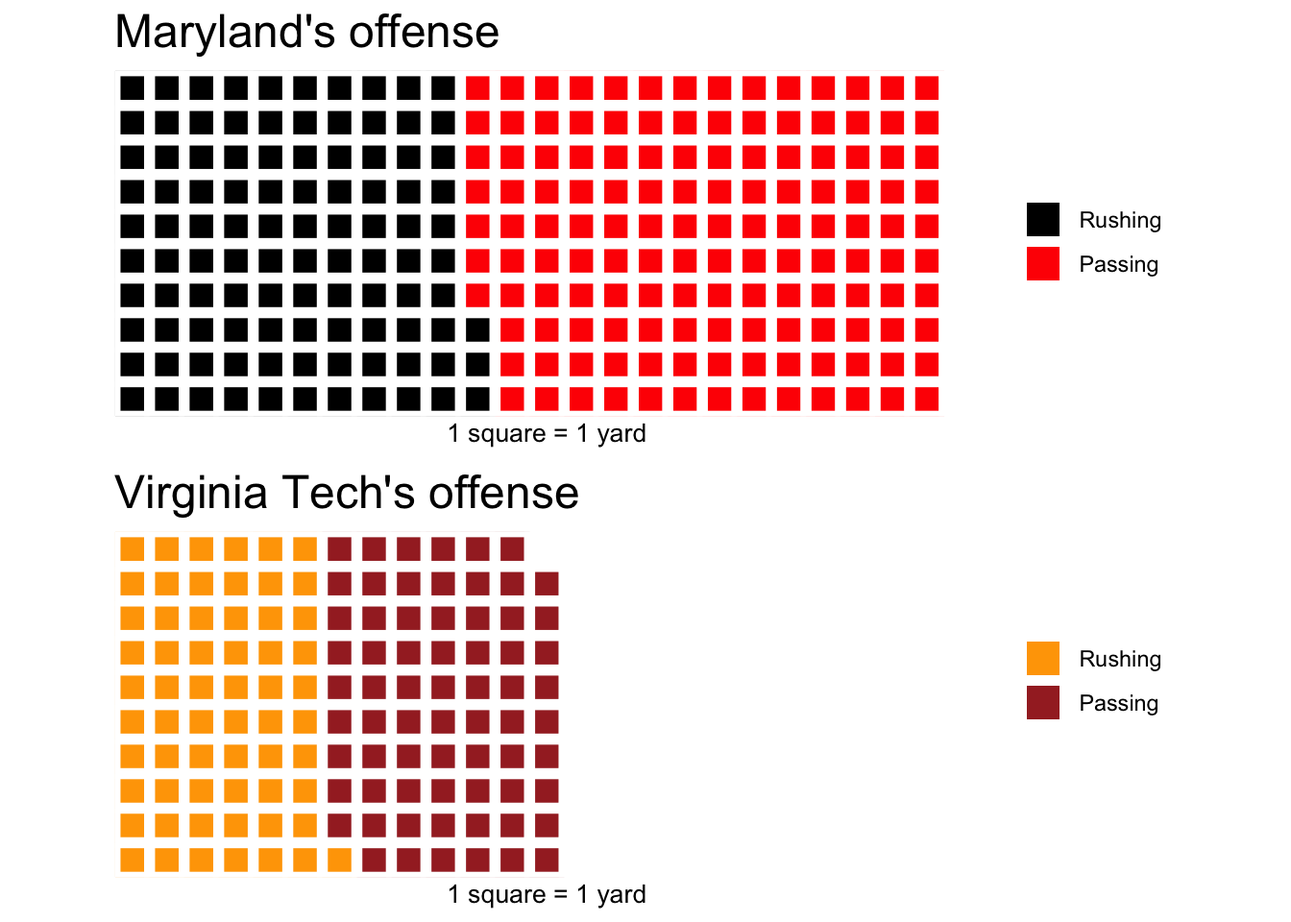
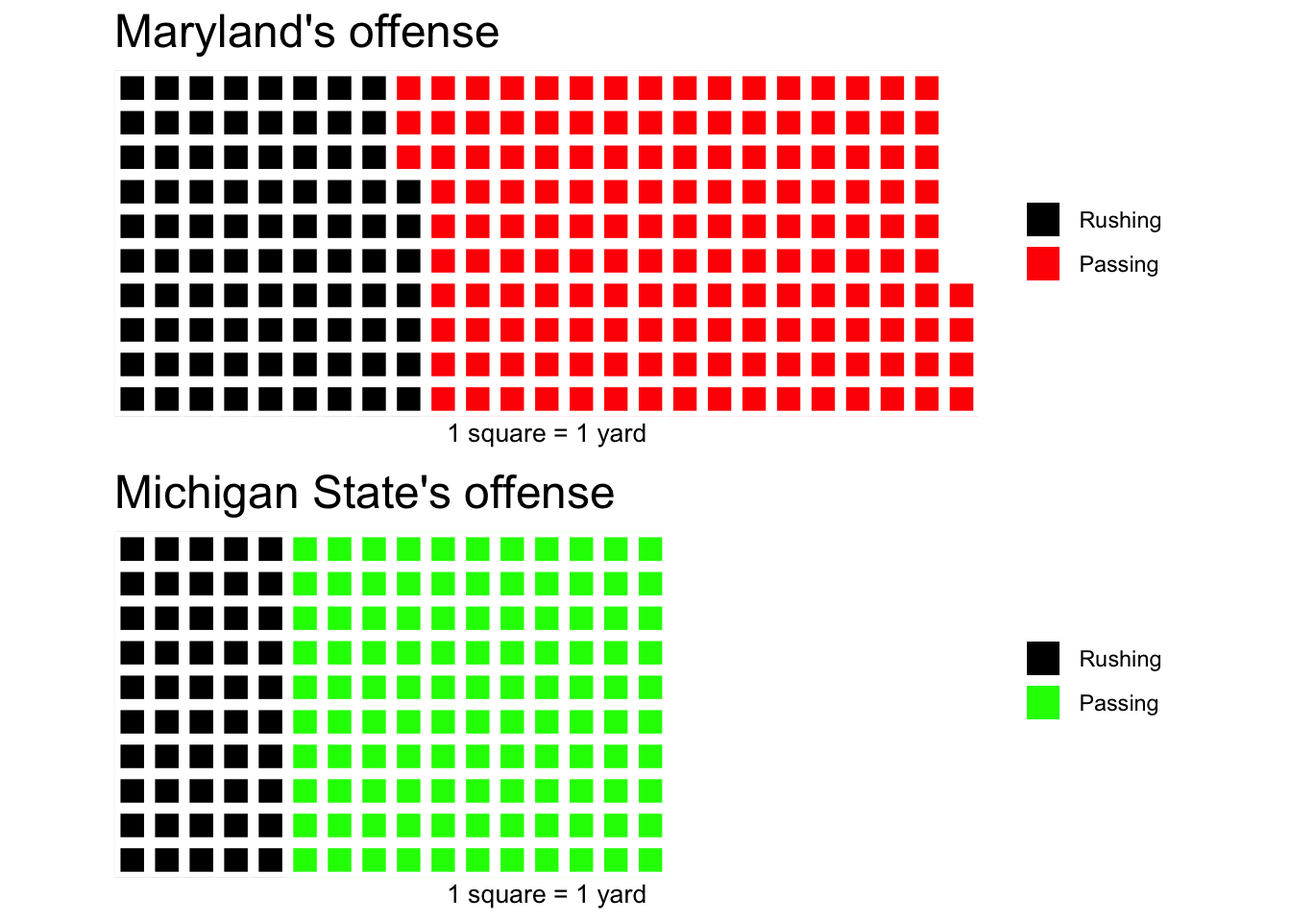
updated

diff --git a/sports/clustering.html b/sports/clustering.html
@@ -2,7 +2,7 @@
 <html xmlns="http://www.w3.org/1999/xhtml" lang="en" xml:lang="en"><head>
 
 <meta charset="utf-8">
-<meta name="generator" content="quarto-0.9.646">
+<meta name="generator" content="quarto-1.0.18">
 
 <meta name="viewport" content="width=device-width, initial-scale=1.0, user-scalable=yes">
 
@@ -98,7 +98,7 @@ code span.wa { color: #60a0b0; font-weight: bold; font-style: italic; } /* Warni
 <link href="site_libs/quarto-html/quarto-syntax-highlighting.css" rel="stylesheet" id="quarto-text-highlighting-styles">
 <script src="site_libs/bootstrap/bootstrap.min.js"></script>
 <link href="site_libs/bootstrap/bootstrap-icons.css" rel="stylesheet">
-<link href="site_libs/bootstrap/bootstrap.min.css" rel="stylesheet">
+<link href="site_libs/bootstrap/bootstrap.min.css" rel="stylesheet" id="quarto-bootstrap" data-mode="light">
 <script id="quarto-search-options" type="application/json">{
   "location": "sidebar",
   "copy-button": false,
@@ -408,22 +408,22 @@ dbl (49): #, Weight, Rk.x, G, GS, MP, FG, FGA, FG%, 2P, 2PA, 2P%, 3P, 3PA, 3...
 <p>To cluster this data properly, we have some work to do.</p>
 <p>First, it won’t do to have players who haven’t played, so we can use filter to find anyone with greater than 0 minutes played. Next, Jalen Smith is a forward, so let’s just look at forwards. Third, we want to limit the data to things that make sense to look at for Smith – things like shooting, rebounds, blocks, turnovers and points.</p>
 <div class="cell">
-<div class="sourceCode cell-code" id="cb4"><pre class="sourceCode r code-with-copy"><code class="sourceCode r"><span id="cb4-1"><a href="#cb4-1" aria-hidden="true" tabindex="-1"></a>playersselected <span class="ot">&lt;-</span> players <span class="sc">%&gt;%</span> </span>
-<span id="cb4-2"><a href="#cb4-2" aria-hidden="true" tabindex="-1"></a>  <span class="fu">filter</span>(MP<span class="sc">&gt;</span><span class="dv">0</span>) <span class="sc">%&gt;%</span> <span class="fu">filter</span>(Pos <span class="sc">==</span> <span class="st">"F"</span>) <span class="sc">%&gt;%</span> </span>
-<span id="cb4-3"><a href="#cb4-3" aria-hidden="true" tabindex="-1"></a>  <span class="fu">select</span>(Player, Team, Pos, MP, <span class="st">`</span><span class="at">FG%</span><span class="st">`</span>, TRB, BLK, TOV, PTS) <span class="sc">%&gt;%</span> </span>
-<span id="cb4-4"><a href="#cb4-4" aria-hidden="true" tabindex="-1"></a>  <span class="fu">na.omit</span>() </span></code><button title="Copy to Clipboard" class="code-copy-button"><i class="bi"></i></button></pre></div>
+<div class="sourceCode cell-code" id="cb4"><pre class="sourceCode r code-with-copy"><code class="sourceCode r"><span id="cb4-1"><a href="#cb4-1" aria-hidden="true" tabindex="-1"></a>playersselected <span class="ot">&lt;-</span> players <span class="sc">%&gt;%</span></span>
+<span id="cb4-2"><a href="#cb4-2" aria-hidden="true" tabindex="-1"></a>  <span class="fu">filter</span>(MP<span class="sc">&gt;</span><span class="dv">0</span>) <span class="sc">%&gt;%</span> <span class="fu">filter</span>(Pos <span class="sc">==</span> <span class="st">"F"</span>) <span class="sc">%&gt;%</span></span>
+<span id="cb4-3"><a href="#cb4-3" aria-hidden="true" tabindex="-1"></a>  <span class="fu">select</span>(Player, Team, Pos, MP, <span class="st">`</span><span class="at">FG%</span><span class="st">`</span>, TRB, BLK, TOV, PTS) <span class="sc">%&gt;%</span></span>
+<span id="cb4-4"><a href="#cb4-4" aria-hidden="true" tabindex="-1"></a>  <span class="fu">na.omit</span>()</span></code><button title="Copy to Clipboard" class="code-copy-button"><i class="bi"></i></button></pre></div>
 </div>
 <p>Now, k-means clustering doesn’t work as well with data that can be on different scales. So comparing a percentage to a count metric – shooting percentage to points – would create chaos because shooting percentages are a fraction of 1 and points, depending on when they are in the season, could be quite large. So we have to scale each metric – put them on a similar basis using the distance from the max value as our guide. Also, k-means clustering won’t work with text data, so we need to create a dataframe that’s just the numbers, but scaled. We can do that with another select, and using mutate_all with the scale function. The <code>na.omit()</code> means get rid of any blanks, because they too will cause errors.</p>
 <div class="cell">
-<div class="sourceCode cell-code" id="cb5"><pre class="sourceCode r code-with-copy"><code class="sourceCode r"><span id="cb5-1"><a href="#cb5-1" aria-hidden="true" tabindex="-1"></a>playersscaled <span class="ot">&lt;-</span> playersselected <span class="sc">%&gt;%</span> </span>
-<span id="cb5-2"><a href="#cb5-2" aria-hidden="true" tabindex="-1"></a>  <span class="fu">select</span>(MP, <span class="st">`</span><span class="at">FG%</span><span class="st">`</span>, TRB, BLK, TOV, PTS) <span class="sc">%&gt;%</span> </span>
-<span id="cb5-3"><a href="#cb5-3" aria-hidden="true" tabindex="-1"></a>  <span class="fu">mutate_all</span>(scale) <span class="sc">%&gt;%</span> </span>
+<div class="sourceCode cell-code" id="cb5"><pre class="sourceCode r code-with-copy"><code class="sourceCode r"><span id="cb5-1"><a href="#cb5-1" aria-hidden="true" tabindex="-1"></a>playersscaled <span class="ot">&lt;-</span> playersselected <span class="sc">%&gt;%</span></span>
+<span id="cb5-2"><a href="#cb5-2" aria-hidden="true" tabindex="-1"></a>  <span class="fu">select</span>(MP, <span class="st">`</span><span class="at">FG%</span><span class="st">`</span>, TRB, BLK, TOV, PTS) <span class="sc">%&gt;%</span></span>
+<span id="cb5-3"><a href="#cb5-3" aria-hidden="true" tabindex="-1"></a>  <span class="fu">mutate_all</span>(scale) <span class="sc">%&gt;%</span></span>
 <span id="cb5-4"><a href="#cb5-4" aria-hidden="true" tabindex="-1"></a>  <span class="fu">na.omit</span>()</span></code><button title="Copy to Clipboard" class="code-copy-button"><i class="bi"></i></button></pre></div>
 </div>
 <p>With k-means clustering, we decide how many clusters we want. Most often, researchers will try a handful of different cluster numbers and see what works. But there are methods for finding the optimal number. One method is called the Elbow method. One implementation of this, <a href="https://uc-r.github.io/kmeans_clustering">borrowed from the University of Cincinnati’s Business Analytics program</a>, does this quite nicely with a graph that will help you decide for yourself.</p>
 <p>All you need to do in this code is change out the data frame – <code>playersscaled</code> in this case – and run it.</p>
 <div class="cell">
-<div class="sourceCode cell-code" id="cb6"><pre class="sourceCode r code-with-copy"><code class="sourceCode r"><span id="cb6-1"><a href="#cb6-1" aria-hidden="true" tabindex="-1"></a><span class="co"># function to compute total within-cluster sum of square </span></span>
+<div class="sourceCode cell-code" id="cb6"><pre class="sourceCode r code-with-copy"><code class="sourceCode r"><span id="cb6-1"><a href="#cb6-1" aria-hidden="true" tabindex="-1"></a><span class="co"># function to compute total within-cluster sum of square</span></span>
 <span id="cb6-2"><a href="#cb6-2" aria-hidden="true" tabindex="-1"></a>wss <span class="ot">&lt;-</span> <span class="cf">function</span>(k) {</span>
 <span id="cb6-3"><a href="#cb6-3" aria-hidden="true" tabindex="-1"></a>  <span class="fu">kmeans</span>(playersscaled, k, <span class="at">nstart =</span> <span class="dv">10</span> )<span class="sc">$</span>tot.withinss</span>
 <span id="cb6-4"><a href="#cb6-4" aria-hidden="true" tabindex="-1"></a>}</span>
@@ -435,7 +435,7 @@ dbl (49): #, Weight, Rk.x, G, GS, MP, FG, FGA, FG%, 2P, 2PA, 2P%, 3P, 3PA, 3...
 <span id="cb6-10"><a href="#cb6-10" aria-hidden="true" tabindex="-1"></a>wss_values <span class="ot">&lt;-</span> <span class="fu">map_dbl</span>(k.values, wss)</span>
 <span id="cb6-11"><a href="#cb6-11" aria-hidden="true" tabindex="-1"></a></span>
 <span id="cb6-12"><a href="#cb6-12" aria-hidden="true" tabindex="-1"></a><span class="fu">plot</span>(k.values, wss_values,</span>
-<span id="cb6-13"><a href="#cb6-13" aria-hidden="true" tabindex="-1"></a>       <span class="at">type=</span><span class="st">"b"</span>, <span class="at">pch =</span> <span class="dv">19</span>, <span class="at">frame =</span> <span class="cn">FALSE</span>, </span>
+<span id="cb6-13"><a href="#cb6-13" aria-hidden="true" tabindex="-1"></a>       <span class="at">type=</span><span class="st">"b"</span>, <span class="at">pch =</span> <span class="dv">19</span>, <span class="at">frame =</span> <span class="cn">FALSE</span>,</span>
 <span id="cb6-14"><a href="#cb6-14" aria-hidden="true" tabindex="-1"></a>       <span class="at">xlab=</span><span class="st">"Number of clusters K"</span>,</span>
 <span id="cb6-15"><a href="#cb6-15" aria-hidden="true" tabindex="-1"></a>       <span class="at">ylab=</span><span class="st">"Total within-clusters sum of squares"</span>)</span></code><button title="Copy to Clipboard" class="code-copy-button"><i class="bi"></i></button></pre></div>
 <div class="cell-output-display">
@@ -524,10 +524,10 @@ Available components:
 <p>Interpreting this output, the very first thing you need to know is that <strong>the cluster numbers are meaningless</strong>. They aren’t ranks. They aren’t anything. After you have taken that on board, look at the cluster sizes at the top. Clusters 3 and 4 are pretty large compared to others. That’s notable. Then we can look at the cluster means. For reference, 0 is going to be average. So group 1 is below average on minutes played. Groups 8 is slightly above, group 5 is well above.</p>
 <p>So which group is Jalen Smith in? Well, first we have to put our data back together again. In K8, there is a list of cluster assignments in the same order we put them in, but recall we have no names. So we need to re-combine them with our original data. We can do that with the following:</p>
 <div class="cell">
-<div class="sourceCode cell-code" id="cb10"><pre class="sourceCode r code-with-copy"><code class="sourceCode r"><span id="cb10-1"><a href="#cb10-1" aria-hidden="true" tabindex="-1"></a>playercluster <span class="ot">&lt;-</span> <span class="fu">data.frame</span>(playersselected, k8<span class="sc">$</span>cluster) </span></code><button title="Copy to Clipboard" class="code-copy-button"><i class="bi"></i></button></pre></div>
+<div class="sourceCode cell-code" id="cb10"><pre class="sourceCode r code-with-copy"><code class="sourceCode r"><span id="cb10-1"><a href="#cb10-1" aria-hidden="true" tabindex="-1"></a>playercluster <span class="ot">&lt;-</span> <span class="fu">data.frame</span>(playersselected, k8<span class="sc">$</span>cluster)</span></code><button title="Copy to Clipboard" class="code-copy-button"><i class="bi"></i></button></pre></div>
 </div>
 <p>Now we have a dataframe called playercluster that has our player names and what cluster they are in. The fastest way to find Jalen Smith is to double click on the playercluster table in the environment and use the search in the top right of the table. Because this is based on some random selections of points to start the groupings, these may change from person to person, but Smith is in Group 2 in my data.</p>
-<p>We now have a dataset and can plot it like anything else. Let’s get Cam Mack and then plot him against the rest of college basketball on rebounds versus minutes played.</p>
+<p>We now have a dataset and can plot it like anything else. Let’s get Jalen Smith and then plot him against the rest of college basketball on rebounds versus minutes played.</p>
 <div class="cell">
 <div class="sourceCode cell-code" id="cb11"><pre class="sourceCode r code-with-copy"><code class="sourceCode r"><span id="cb11-1"><a href="#cb11-1" aria-hidden="true" tabindex="-1"></a>cm <span class="ot">&lt;-</span> playercluster <span class="sc">%&gt;%</span> <span class="fu">filter</span>(Player <span class="sc">==</span> <span class="st">"Jalen Smith"</span>)</span>
 <span id="cb11-2"><a href="#cb11-2" aria-hidden="true" tabindex="-1"></a></span>
@@ -539,8 +539,8 @@ Available components:
 </div>
 <p>So Jalen’s in cluster 2, which if you look at our clusters, puts him in the cluster with all above average metrics. What does that look like? We know Jalen was a rebounding machine, so where do group 2 people grade out on rebounds?</p>
 <div class="cell">
-<div class="sourceCode cell-code" id="cb13"><pre class="sourceCode r code-with-copy"><code class="sourceCode r"><span id="cb13-1"><a href="#cb13-1" aria-hidden="true" tabindex="-1"></a><span class="fu">ggplot</span>() <span class="sc">+</span> </span>
-<span id="cb13-2"><a href="#cb13-2" aria-hidden="true" tabindex="-1"></a>  <span class="fu">geom_point</span>(<span class="at">data=</span>playercluster, <span class="fu">aes</span>(<span class="at">x=</span>MP, <span class="at">y=</span>TRB, <span class="at">color=</span>k8.cluster)) <span class="sc">+</span> </span>
+<div class="sourceCode cell-code" id="cb13"><pre class="sourceCode r code-with-copy"><code class="sourceCode r"><span id="cb13-1"><a href="#cb13-1" aria-hidden="true" tabindex="-1"></a><span class="fu">ggplot</span>() <span class="sc">+</span></span>
+<span id="cb13-2"><a href="#cb13-2" aria-hidden="true" tabindex="-1"></a>  <span class="fu">geom_point</span>(<span class="at">data=</span>playercluster, <span class="fu">aes</span>(<span class="at">x=</span>MP, <span class="at">y=</span>TRB, <span class="at">color=</span>k8.cluster)) <span class="sc">+</span></span>
 <span id="cb13-3"><a href="#cb13-3" aria-hidden="true" tabindex="-1"></a>  <span class="fu">geom_point</span>(<span class="at">data=</span>cm, <span class="fu">aes</span>(<span class="at">x=</span>MP, <span class="at">y=</span>TRB), <span class="at">color=</span><span class="st">"red"</span>)</span></code><button title="Copy to Clipboard" class="code-copy-button"><i class="bi"></i></button></pre></div>
 <div class="cell-output-display">
 <p><img src="clustering_files/figure-html/unnamed-chunk-11-1.png" class="img-fluid" width="672"></p>
@@ -572,22 +572,22 @@ Available components:
 <p>How much does this change if we change the metrics? I used pretty standard box score metrics above. What if we did it using Player Efficiency Rating, True Shooting Percentage, Point Production, Assist Percentage, Win Shares Per 40 Minutes and Box Plus Minus (you can get definitions of all of them by <a href="https://www.sports-reference.com/cbb/schools/nebraska/2020.html">hovering over the stats on Nebraksa’s stats page</a>).</p>
 <p>We’ll repeat the process. Filter out players who don’t play, players with stats missing, and just focus on those stats listed above.</p>
 <div class="cell">
-<div class="sourceCode cell-code" id="cb16"><pre class="sourceCode r code-with-copy"><code class="sourceCode r"><span id="cb16-1"><a href="#cb16-1" aria-hidden="true" tabindex="-1"></a>playersadvanced <span class="ot">&lt;-</span> players <span class="sc">%&gt;%</span> </span>
-<span id="cb16-2"><a href="#cb16-2" aria-hidden="true" tabindex="-1"></a>  <span class="fu">filter</span>(MP<span class="sc">&gt;</span><span class="dv">0</span>) <span class="sc">%&gt;%</span> </span>
-<span id="cb16-3"><a href="#cb16-3" aria-hidden="true" tabindex="-1"></a>  <span class="fu">filter</span>(Pos <span class="sc">==</span> <span class="st">"F"</span>) <span class="sc">%&gt;%</span> </span>
-<span id="cb16-4"><a href="#cb16-4" aria-hidden="true" tabindex="-1"></a>  <span class="fu">select</span>(Player, Team, Pos, PER, <span class="st">`</span><span class="at">TS%</span><span class="st">`</span>, PProd, <span class="st">`</span><span class="at">AST%</span><span class="st">`</span>, <span class="st">`</span><span class="at">WS/40</span><span class="st">`</span>, BPM) <span class="sc">%&gt;%</span> </span>
-<span id="cb16-5"><a href="#cb16-5" aria-hidden="true" tabindex="-1"></a>  <span class="fu">na.omit</span>() </span></code><button title="Copy to Clipboard" class="code-copy-button"><i class="bi"></i></button></pre></div>
+<div class="sourceCode cell-code" id="cb16"><pre class="sourceCode r code-with-copy"><code class="sourceCode r"><span id="cb16-1"><a href="#cb16-1" aria-hidden="true" tabindex="-1"></a>playersadvanced <span class="ot">&lt;-</span> players <span class="sc">%&gt;%</span></span>
+<span id="cb16-2"><a href="#cb16-2" aria-hidden="true" tabindex="-1"></a>  <span class="fu">filter</span>(MP<span class="sc">&gt;</span><span class="dv">0</span>) <span class="sc">%&gt;%</span></span>
+<span id="cb16-3"><a href="#cb16-3" aria-hidden="true" tabindex="-1"></a>  <span class="fu">filter</span>(Pos <span class="sc">==</span> <span class="st">"F"</span>) <span class="sc">%&gt;%</span></span>
+<span id="cb16-4"><a href="#cb16-4" aria-hidden="true" tabindex="-1"></a>  <span class="fu">select</span>(Player, Team, Pos, PER, <span class="st">`</span><span class="at">TS%</span><span class="st">`</span>, PProd, <span class="st">`</span><span class="at">AST%</span><span class="st">`</span>, <span class="st">`</span><span class="at">WS/40</span><span class="st">`</span>, BPM) <span class="sc">%&gt;%</span></span>
+<span id="cb16-5"><a href="#cb16-5" aria-hidden="true" tabindex="-1"></a>  <span class="fu">na.omit</span>()</span></code><button title="Copy to Clipboard" class="code-copy-button"><i class="bi"></i></button></pre></div>
 </div>
 <p>Now to scale them.</p>
 <div class="cell">
-<div class="sourceCode cell-code" id="cb17"><pre class="sourceCode r code-with-copy"><code class="sourceCode r"><span id="cb17-1"><a href="#cb17-1" aria-hidden="true" tabindex="-1"></a>playersadvscaled <span class="ot">&lt;-</span> playersadvanced <span class="sc">%&gt;%</span> </span>
-<span id="cb17-2"><a href="#cb17-2" aria-hidden="true" tabindex="-1"></a>  <span class="fu">select</span>(PER, <span class="st">`</span><span class="at">TS%</span><span class="st">`</span>, PProd, <span class="st">`</span><span class="at">AST%</span><span class="st">`</span>, <span class="st">`</span><span class="at">WS/40</span><span class="st">`</span>, BPM) <span class="sc">%&gt;%</span> </span>
-<span id="cb17-3"><a href="#cb17-3" aria-hidden="true" tabindex="-1"></a>  <span class="fu">mutate_all</span>(scale) <span class="sc">%&gt;%</span> </span>
+<div class="sourceCode cell-code" id="cb17"><pre class="sourceCode r code-with-copy"><code class="sourceCode r"><span id="cb17-1"><a href="#cb17-1" aria-hidden="true" tabindex="-1"></a>playersadvscaled <span class="ot">&lt;-</span> playersadvanced <span class="sc">%&gt;%</span></span>
+<span id="cb17-2"><a href="#cb17-2" aria-hidden="true" tabindex="-1"></a>  <span class="fu">select</span>(PER, <span class="st">`</span><span class="at">TS%</span><span class="st">`</span>, PProd, <span class="st">`</span><span class="at">AST%</span><span class="st">`</span>, <span class="st">`</span><span class="at">WS/40</span><span class="st">`</span>, BPM) <span class="sc">%&gt;%</span></span>
+<span id="cb17-3"><a href="#cb17-3" aria-hidden="true" tabindex="-1"></a>  <span class="fu">mutate_all</span>(scale) <span class="sc">%&gt;%</span></span>
 <span id="cb17-4"><a href="#cb17-4" aria-hidden="true" tabindex="-1"></a>  <span class="fu">na.omit</span>()</span></code><button title="Copy to Clipboard" class="code-copy-button"><i class="bi"></i></button></pre></div>
 </div>
 <p>Let’s find the optimal number of clusters.</p>
 <div class="cell">
-<div class="sourceCode cell-code" id="cb18"><pre class="sourceCode r code-with-copy"><code class="sourceCode r"><span id="cb18-1"><a href="#cb18-1" aria-hidden="true" tabindex="-1"></a><span class="co"># function to compute total within-cluster sum of square </span></span>
+<div class="sourceCode cell-code" id="cb18"><pre class="sourceCode r code-with-copy"><code class="sourceCode r"><span id="cb18-1"><a href="#cb18-1" aria-hidden="true" tabindex="-1"></a><span class="co"># function to compute total within-cluster sum of square</span></span>
 <span id="cb18-2"><a href="#cb18-2" aria-hidden="true" tabindex="-1"></a>wss <span class="ot">&lt;-</span> <span class="cf">function</span>(k) {</span>
 <span id="cb18-3"><a href="#cb18-3" aria-hidden="true" tabindex="-1"></a>  <span class="fu">kmeans</span>(playersadvscaled, k, <span class="at">nstart =</span> <span class="dv">10</span> )<span class="sc">$</span>tot.withinss</span>
 <span id="cb18-4"><a href="#cb18-4" aria-hidden="true" tabindex="-1"></a>}</span>
@@ -603,7 +603,7 @@ Available components:
 Warning: did not converge in 10 iterations</code></pre>
 </div>
 <div class="sourceCode cell-code" id="cb20"><pre class="sourceCode r code-with-copy"><code class="sourceCode r"><span id="cb20-1"><a href="#cb20-1" aria-hidden="true" tabindex="-1"></a><span class="fu">plot</span>(k.values, wss_values,</span>
-<span id="cb20-2"><a href="#cb20-2" aria-hidden="true" tabindex="-1"></a>       <span class="at">type=</span><span class="st">"b"</span>, <span class="at">pch =</span> <span class="dv">19</span>, <span class="at">frame =</span> <span class="cn">FALSE</span>, </span>
+<span id="cb20-2"><a href="#cb20-2" aria-hidden="true" tabindex="-1"></a>       <span class="at">type=</span><span class="st">"b"</span>, <span class="at">pch =</span> <span class="dv">19</span>, <span class="at">frame =</span> <span class="cn">FALSE</span>,</span>
 <span id="cb20-3"><a href="#cb20-3" aria-hidden="true" tabindex="-1"></a>       <span class="at">xlab=</span><span class="st">"Number of clusters K"</span>,</span>
 <span id="cb20-4"><a href="#cb20-4" aria-hidden="true" tabindex="-1"></a>       <span class="at">ylab=</span><span class="st">"Total within-clusters sum of squares"</span>)</span></code><button title="Copy to Clipboard" class="code-copy-button"><i class="bi"></i></button></pre></div>
 <div class="cell-output-display">
@@ -686,7 +686,7 @@ Available components:
 </div>
 <p>Looks like this time, cluster 1 is all below average and cluster 5 is all above. Which cluster is Jalen Smith in?</p>
 <div class="cell">
-<div class="sourceCode cell-code" id="cb24"><pre class="sourceCode r code-with-copy"><code class="sourceCode r"><span id="cb24-1"><a href="#cb24-1" aria-hidden="true" tabindex="-1"></a>playeradvcluster <span class="ot">&lt;-</span> <span class="fu">data.frame</span>(playersadvanced, advk4<span class="sc">$</span>cluster) </span></code><button title="Copy to Clipboard" class="code-copy-button"><i class="bi"></i></button></pre></div>
+<div class="sourceCode cell-code" id="cb24"><pre class="sourceCode r code-with-copy"><code class="sourceCode r"><span id="cb24-1"><a href="#cb24-1" aria-hidden="true" tabindex="-1"></a>playeradvcluster <span class="ot">&lt;-</span> <span class="fu">data.frame</span>(playersadvanced, advk4<span class="sc">$</span>cluster)</span></code><button title="Copy to Clipboard" class="code-copy-button"><i class="bi"></i></button></pre></div>
 </div>
 <div class="cell">
 <div class="sourceCode cell-code" id="cb25"><pre class="sourceCode r code-with-copy"><code class="sourceCode r"><span id="cb25-1"><a href="#cb25-1" aria-hidden="true" tabindex="-1"></a>jsadv <span class="ot">&lt;-</span> playeradvcluster <span class="sc">%&gt;%</span> <span class="fu">filter</span>(Player <span class="sc">==</span> <span class="st">"Jalen Smith"</span>)</span>
@@ -702,9 +702,9 @@ Available components:
 <p>Cluster 4 on my dataset. So in this season, we can say he’s in a big group of players who are all above average on these advanced metrics.</p>
 <p>Now who are his Big Ten peers?</p>
 <div class="cell">
-<div class="sourceCode cell-code" id="cb27"><pre class="sourceCode r code-with-copy"><code class="sourceCode r"><span id="cb27-1"><a href="#cb27-1" aria-hidden="true" tabindex="-1"></a>playeradvcluster <span class="sc">%&gt;%</span> </span>
-<span id="cb27-2"><a href="#cb27-2" aria-hidden="true" tabindex="-1"></a>  <span class="fu">filter</span>(advk4.cluster <span class="sc">==</span> <span class="dv">4</span>) <span class="sc">%&gt;%</span> </span>
-<span id="cb27-3"><a href="#cb27-3" aria-hidden="true" tabindex="-1"></a>  <span class="fu">filter</span>(Team <span class="sc">%in%</span> big10) <span class="sc">%&gt;%</span> </span>
+<div class="sourceCode cell-code" id="cb27"><pre class="sourceCode r code-with-copy"><code class="sourceCode r"><span id="cb27-1"><a href="#cb27-1" aria-hidden="true" tabindex="-1"></a>playeradvcluster <span class="sc">%&gt;%</span></span>
+<span id="cb27-2"><a href="#cb27-2" aria-hidden="true" tabindex="-1"></a>  <span class="fu">filter</span>(advk4.cluster <span class="sc">==</span> <span class="dv">4</span>) <span class="sc">%&gt;%</span></span>
+<span id="cb27-3"><a href="#cb27-3" aria-hidden="true" tabindex="-1"></a>  <span class="fu">filter</span>(Team <span class="sc">%in%</span> big10) <span class="sc">%&gt;%</span></span>
 <span id="cb27-4"><a href="#cb27-4" aria-hidden="true" tabindex="-1"></a>  <span class="fu">arrange</span>(<span class="fu">desc</span>(PProd))</span></code><button title="Copy to Clipboard" class="code-copy-button"><i class="bi"></i></button></pre></div>
 <div class="cell-output cell-output-stdout">
 <pre><code>            Player                Team Pos   PER TS. PProd AST.  WS.40   BPM
@@ -717,7 +717,7 @@ Available components:
 3             4</code></pre>
 </div>
 </div>
-<p>Sorting on Points Produced, Cam Mack is third out of the 15 forwards in the Big Ten who land in Cluster 4. Seems advanced metrics rate Jalen Smith pretty highly.</p>
+<p>Sorting on Points Produced, Jalen Smith is third out of the 15 forwards in the Big Ten who land in Cluster 4. Seems advanced metrics rate Jalen Smith pretty highly.</p>
 
 
 </section>
@@ -725,6 +725,21 @@ Available components:
 </main> <!-- /main -->
 <script id="quarto-html-after-body" type="application/javascript">
 window.document.addEventListener("DOMContentLoaded", function (event) {
+  const toggleBodyColorMode = (bsSheetEl) => {
+    const mode = bsSheetEl.getAttribute("data-mode");
+    const bodyEl = window.document.querySelector("body");
+    if (mode === "dark") {
+      bodyEl.classList.add("quarto-dark");
+      bodyEl.classList.remove("quarto-light");
+    } else {
+      bodyEl.classList.add("quarto-light");
+      bodyEl.classList.remove("quarto-dark");
+    }
+  }
+  const toggleBodyColorPrimary = () => {
+    toggleBodyColorMode(window.document.querySelector("link#quarto-bootstrap"));
+  }
+  toggleBodyColorPrimary();  
   const icon = "";
   const anchorJS = new window.AnchorJS();
   anchorJS.options = {

diff --git a/sports/wafflecharts.html b/sports/wafflecharts.html
@@ -385,12 +385,12 @@ code span.wa { color: #60a0b0; font-weight: bold; font-style: italic; } /* Warni
 </div>
 <section id="making-waffles-with-vectors" class="level2" data-number="18.1">
 <h2 data-number="18.1" class="anchored" data-anchor-id="making-waffles-with-vectors"><span class="header-section-number">18.1</span> Making waffles with vectors</h2>
-<p>Let’s look at Maryland’s football bowl game win over Virginia Tech last year. <a href="https://umterps.com/sports/football/stats/2021/virginia-tech/boxscore/12866">Here’s the box score</a>, which we’ll use for this part of the walkthrough.</p>
+<p>Let’s look at Maryland’s football game against Michigan State this season. <a href="https://umterps.com/sports/football/stats/2022/michigan-state/boxscore/10076">Here’s the box score</a>, which we’ll use for this part of the walkthrough.</p>
 <p>Maybe the easiest way to do waffle charts, at least at first, is to make vectors of your data and plug them in. To make a vector, we use the <code>c</code> or concatenate function.</p>
-<p>So let’s look at offense. Rushing vs passing.</p>
+<p>So let’s look at offense. Net rushing vs passing.</p>
 <div class="cell">
-<div class="sourceCode cell-code" id="cb2"><pre class="sourceCode r code-with-copy"><code class="sourceCode r"><span id="cb2-1"><a href="#cb2-1" aria-hidden="true" tabindex="-1"></a>md <span class="ot">&lt;-</span> <span class="fu">c</span>(<span class="st">"Rushing"</span><span class="ot">=</span><span class="dv">206</span>, <span class="st">"Passing"</span><span class="ot">=</span><span class="dv">275</span>)</span>
-<span id="cb2-2"><a href="#cb2-2" aria-hidden="true" tabindex="-1"></a>vt <span class="ot">&lt;-</span> <span class="fu">c</span>(<span class="st">"Rushing"</span><span class="ot">=</span><span class="dv">122</span>, <span class="st">"Passing"</span><span class="ot">=</span><span class="dv">137</span>)</span></code><button title="Copy to Clipboard" class="code-copy-button"><i class="bi"></i></button></pre></div>
+<div class="sourceCode cell-code" id="cb2"><pre class="sourceCode r code-with-copy"><code class="sourceCode r"><span id="cb2-1"><a href="#cb2-1" aria-hidden="true" tabindex="-1"></a>md <span class="ot">&lt;-</span> <span class="fu">c</span>(<span class="st">"Rushing"</span><span class="ot">=</span><span class="dv">175</span>, <span class="st">"Passing"</span><span class="ot">=</span><span class="dv">314</span>)</span>
+<span id="cb2-2"><a href="#cb2-2" aria-hidden="true" tabindex="-1"></a>ms <span class="ot">&lt;-</span> <span class="fu">c</span>(<span class="st">"Rushing"</span><span class="ot">=</span><span class="dv">100</span>, <span class="st">"Passing"</span><span class="ot">=</span><span class="dv">221</span>)</span></code><button title="Copy to Clipboard" class="code-copy-button"><i class="bi"></i></button></pre></div>
 </div>
 <p>So what does the breakdown of the night look like?</p>
 <p>The waffle library can break this down in a way that’s easier on the eyes than a pie chart. We call the library, add the data, specify the number of rows, give it a title and an x value label, and to clean up a quirk of the library, we’ve got to specify colors.</p>
@@ -408,15 +408,15 @@ code span.wa { color: #60a0b0; font-weight: bold; font-style: italic; } /* Warni
 </div>
 <p>Or, we could make this two teams in the same chart.</p>
 <div class="cell">
-<div class="sourceCode cell-code" id="cb4"><pre class="sourceCode r code-with-copy"><code class="sourceCode r"><span id="cb4-1"><a href="#cb4-1" aria-hidden="true" tabindex="-1"></a>passing <span class="ot">&lt;-</span> <span class="fu">c</span>(<span class="st">"Maryland"</span><span class="ot">=</span><span class="dv">275</span>, <span class="st">"Virginia Tech"</span><span class="ot">=</span><span class="dv">137</span>)</span></code><button title="Copy to Clipboard" class="code-copy-button"><i class="bi"></i></button></pre></div>
+<div class="sourceCode cell-code" id="cb4"><pre class="sourceCode r code-with-copy"><code class="sourceCode r"><span id="cb4-1"><a href="#cb4-1" aria-hidden="true" tabindex="-1"></a>passing <span class="ot">&lt;-</span> <span class="fu">c</span>(<span class="st">"Maryland"</span><span class="ot">=</span><span class="dv">314</span>, <span class="st">"Michigan State"</span><span class="ot">=</span><span class="dv">221</span>)</span></code><button title="Copy to Clipboard" class="code-copy-button"><i class="bi"></i></button></pre></div>
 </div>
 <div class="cell">
 <div class="sourceCode cell-code" id="cb5"><pre class="sourceCode r code-with-copy"><code class="sourceCode r"><span id="cb5-1"><a href="#cb5-1" aria-hidden="true" tabindex="-1"></a><span class="fu">waffle</span>(</span>
 <span id="cb5-2"><a href="#cb5-2" aria-hidden="true" tabindex="-1"></a>        passing, </span>
 <span id="cb5-3"><a href="#cb5-3" aria-hidden="true" tabindex="-1"></a>        <span class="at">rows =</span> <span class="dv">10</span>, </span>
-<span id="cb5-4"><a href="#cb5-4" aria-hidden="true" tabindex="-1"></a>        <span class="at">title=</span><span class="st">"Maryland vs Virginia Tech: passing"</span>, </span>
+<span id="cb5-4"><a href="#cb5-4" aria-hidden="true" tabindex="-1"></a>        <span class="at">title=</span><span class="st">"Maryland vs Michigan State: passing"</span>, </span>
 <span id="cb5-5"><a href="#cb5-5" aria-hidden="true" tabindex="-1"></a>        <span class="at">xlab=</span><span class="st">"1 square = 1 yard"</span>, </span>
-<span id="cb5-6"><a href="#cb5-6" aria-hidden="true" tabindex="-1"></a>        <span class="at">colors =</span> <span class="fu">c</span>(<span class="st">"red"</span>, <span class="st">"black"</span>)</span>
+<span id="cb5-6"><a href="#cb5-6" aria-hidden="true" tabindex="-1"></a>        <span class="at">colors =</span> <span class="fu">c</span>(<span class="st">"red"</span>, <span class="st">"green"</span>)</span>
 <span id="cb5-7"><a href="#cb5-7" aria-hidden="true" tabindex="-1"></a>)</span></code><button title="Copy to Clipboard" class="code-copy-button"><i class="bi"></i></button></pre></div>
 <div class="cell-output-display">
 <p><img src="wafflecharts_files/figure-html/unnamed-chunk-5-1.png" class="img-fluid" width="672"></p>
@@ -431,21 +431,21 @@ code span.wa { color: #60a0b0; font-weight: bold; font-style: italic; } /* Warni
 <span id="cb6-5"><a href="#cb6-5" aria-hidden="true" tabindex="-1"></a>        <span class="at">xlab=</span><span class="st">"1 square = 1 yard"</span>, </span>
 <span id="cb6-6"><a href="#cb6-6" aria-hidden="true" tabindex="-1"></a>        <span class="at">colors =</span> <span class="fu">c</span>(<span class="st">"black"</span>, <span class="st">"red"</span>)</span>
 <span id="cb6-7"><a href="#cb6-7" aria-hidden="true" tabindex="-1"></a>        ),</span>
-<span id="cb6-8"><a href="#cb6-8" aria-hidden="true" tabindex="-1"></a> <span class="fu">waffle</span>(vt, </span>
+<span id="cb6-8"><a href="#cb6-8" aria-hidden="true" tabindex="-1"></a> <span class="fu">waffle</span>(ms, </span>
 <span id="cb6-9"><a href="#cb6-9" aria-hidden="true" tabindex="-1"></a>        <span class="at">rows =</span> <span class="dv">10</span>, </span>
-<span id="cb6-10"><a href="#cb6-10" aria-hidden="true" tabindex="-1"></a>        <span class="at">title=</span><span class="st">"Virginia Tech's offense"</span>, </span>
+<span id="cb6-10"><a href="#cb6-10" aria-hidden="true" tabindex="-1"></a>        <span class="at">title=</span><span class="st">"Michigan State's offense"</span>, </span>
 <span id="cb6-11"><a href="#cb6-11" aria-hidden="true" tabindex="-1"></a>        <span class="at">xlab=</span><span class="st">"1 square = 1 yard"</span>, </span>
-<span id="cb6-12"><a href="#cb6-12" aria-hidden="true" tabindex="-1"></a>        <span class="at">colors =</span> <span class="fu">c</span>(<span class="st">"black"</span>, <span class="st">"red"</span>)</span>
+<span id="cb6-12"><a href="#cb6-12" aria-hidden="true" tabindex="-1"></a>        <span class="at">colors =</span> <span class="fu">c</span>(<span class="st">"black"</span>, <span class="st">"green"</span>)</span>
 <span id="cb6-13"><a href="#cb6-13" aria-hidden="true" tabindex="-1"></a>        )</span>
 <span id="cb6-14"><a href="#cb6-14" aria-hidden="true" tabindex="-1"></a>)</span></code><button title="Copy to Clipboard" class="code-copy-button"><i class="bi"></i></button></pre></div>
 <div class="cell-output-display">
 <p><img src="wafflecharts_files/figure-html/unnamed-chunk-6-1.png" class="img-fluid" width="672"></p>
 </div>
 </div>
-<p>What do you notice about this chart? Notice how the squares aren’t the same size? Well, Maryland out-gained Virginia Tech by a long way. So the squares aren’t the same size because the numbers aren’t the same. We can fix that by adding an unnamed padding number so the number of yards add up to the same thing. Let’s make the total for everyone be 481, Maryland’s total yards of offense. So to do that, we need to add a padding of 222 to Virginia Tech. REMEMBER: Don’t name it or it’ll show up in the legend.</p>
+<p>What do you notice about this chart? Notice how the squares aren’t the same size? Well, Maryland out-gained Michigan State by a long way. So the squares aren’t the same size because the numbers aren’t the same. We can fix that by adding an unnamed padding number so the number of yards add up to the same thing. Let’s make the total for everyone be 489, Maryland’s total yards of offense. So to do that, we need to add a padding of 168 to Michigan State. REMEMBER: Don’t name it or it’ll show up in the legend.</p>
 <div class="cell">
-<div class="sourceCode cell-code" id="cb7"><pre class="sourceCode r code-with-copy"><code class="sourceCode r"><span id="cb7-1"><a href="#cb7-1" aria-hidden="true" tabindex="-1"></a>md <span class="ot">&lt;-</span> <span class="fu">c</span>(<span class="st">"Rushing"</span><span class="ot">=</span><span class="dv">206</span>, <span class="st">"Passing"</span><span class="ot">=</span><span class="dv">275</span>)</span>
-<span id="cb7-2"><a href="#cb7-2" aria-hidden="true" tabindex="-1"></a>vt <span class="ot">&lt;-</span> <span class="fu">c</span>(<span class="st">"Rushing"</span><span class="ot">=</span><span class="dv">122</span>, <span class="st">"Passing"</span><span class="ot">=</span><span class="dv">137</span>, <span class="dv">222</span>)</span></code><button title="Copy to Clipboard" class="code-copy-button"><i class="bi"></i></button></pre></div>
+<div class="sourceCode cell-code" id="cb7"><pre class="sourceCode r code-with-copy"><code class="sourceCode r"><span id="cb7-1"><a href="#cb7-1" aria-hidden="true" tabindex="-1"></a>md <span class="ot">&lt;-</span> <span class="fu">c</span>(<span class="st">"Rushing"</span><span class="ot">=</span><span class="dv">175</span>, <span class="st">"Passing"</span><span class="ot">=</span><span class="dv">314</span>)</span>
+<span id="cb7-2"><a href="#cb7-2" aria-hidden="true" tabindex="-1"></a>ms <span class="ot">&lt;-</span> <span class="fu">c</span>(<span class="st">"Rushing"</span><span class="ot">=</span><span class="dv">100</span>, <span class="st">"Passing"</span><span class="ot">=</span><span class="dv">221</span>, <span class="dv">168</span>)</span></code><button title="Copy to Clipboard" class="code-copy-button"><i class="bi"></i></button></pre></div>
 </div>
 <p>Now, in our waffle iron, if we don’t give that padding a color, we’ll get an error. So we need to make it white. Which, given our white background, means it will disappear.</p>
 <div class="cell">
@@ -456,11 +456,11 @@ code span.wa { color: #60a0b0; font-weight: bold; font-style: italic; } /* Warni
 <span id="cb8-5"><a href="#cb8-5" aria-hidden="true" tabindex="-1"></a>        <span class="at">xlab=</span><span class="st">"1 square = 1 yard"</span>, </span>
 <span id="cb8-6"><a href="#cb8-6" aria-hidden="true" tabindex="-1"></a>        <span class="at">colors =</span> <span class="fu">c</span>(<span class="st">"black"</span>, <span class="st">"red"</span>)</span>
 <span id="cb8-7"><a href="#cb8-7" aria-hidden="true" tabindex="-1"></a>        ),</span>
-<span id="cb8-8"><a href="#cb8-8" aria-hidden="true" tabindex="-1"></a> <span class="fu">waffle</span>(vt, </span>
+<span id="cb8-8"><a href="#cb8-8" aria-hidden="true" tabindex="-1"></a> <span class="fu">waffle</span>(ms, </span>
 <span id="cb8-9"><a href="#cb8-9" aria-hidden="true" tabindex="-1"></a>        <span class="at">rows =</span> <span class="dv">10</span>, </span>
-<span id="cb8-10"><a href="#cb8-10" aria-hidden="true" tabindex="-1"></a>        <span class="at">title=</span><span class="st">"Virginia Tech's offense"</span>, </span>
+<span id="cb8-10"><a href="#cb8-10" aria-hidden="true" tabindex="-1"></a>        <span class="at">title=</span><span class="st">"Michigan State's offense"</span>, </span>
 <span id="cb8-11"><a href="#cb8-11" aria-hidden="true" tabindex="-1"></a>        <span class="at">xlab=</span><span class="st">"1 square = 1 yard"</span>,</span>
-<span id="cb8-12"><a href="#cb8-12" aria-hidden="true" tabindex="-1"></a>        <span class="at">colors =</span> <span class="fu">c</span>(<span class="st">"orange"</span>, <span class="st">"brown"</span>, <span class="st">"white"</span>)</span>
+<span id="cb8-12"><a href="#cb8-12" aria-hidden="true" tabindex="-1"></a>        <span class="at">colors =</span> <span class="fu">c</span>(<span class="st">"black"</span>, <span class="st">"green"</span>, <span class="st">"white"</span>)</span>
 <span id="cb8-13"><a href="#cb8-13" aria-hidden="true" tabindex="-1"></a>        )</span>
 <span id="cb8-14"><a href="#cb8-14" aria-hidden="true" tabindex="-1"></a>)</span></code><button title="Copy to Clipboard" class="code-copy-button"><i class="bi"></i></button></pre></div>
 <div class="cell-output-display">
@@ -476,18 +476,18 @@ code span.wa { color: #60a0b0; font-weight: bold; font-style: italic; } /* Warni
 <span id="cb9-5"><a href="#cb9-5" aria-hidden="true" tabindex="-1"></a>        <span class="at">xlab=</span><span class="st">"1 square = 1 yard"</span>, </span>
 <span id="cb9-6"><a href="#cb9-6" aria-hidden="true" tabindex="-1"></a>        <span class="at">colors =</span> <span class="fu">c</span>(<span class="st">"black"</span>, <span class="st">"red"</span>)</span>
 <span id="cb9-7"><a href="#cb9-7" aria-hidden="true" tabindex="-1"></a>        ),</span>
-<span id="cb9-8"><a href="#cb9-8" aria-hidden="true" tabindex="-1"></a> <span class="fu">waffle</span>(vt<span class="sc">/</span><span class="dv">2</span>, </span>
+<span id="cb9-8"><a href="#cb9-8" aria-hidden="true" tabindex="-1"></a> <span class="fu">waffle</span>(ms<span class="sc">/</span><span class="dv">2</span>, </span>
 <span id="cb9-9"><a href="#cb9-9" aria-hidden="true" tabindex="-1"></a>        <span class="at">rows =</span> <span class="dv">10</span>, </span>
-<span id="cb9-10"><a href="#cb9-10" aria-hidden="true" tabindex="-1"></a>        <span class="at">title=</span><span class="st">"Virginia Tech's offense"</span>, </span>
+<span id="cb9-10"><a href="#cb9-10" aria-hidden="true" tabindex="-1"></a>        <span class="at">title=</span><span class="st">"Michigan State's offense"</span>, </span>
 <span id="cb9-11"><a href="#cb9-11" aria-hidden="true" tabindex="-1"></a>        <span class="at">xlab=</span><span class="st">"1 square = 1 yard"</span>,</span>
-<span id="cb9-12"><a href="#cb9-12" aria-hidden="true" tabindex="-1"></a>        <span class="at">colors =</span> <span class="fu">c</span>(<span class="st">"orange"</span>, <span class="st">"brown"</span>, <span class="st">"white"</span>)</span>
+<span id="cb9-12"><a href="#cb9-12" aria-hidden="true" tabindex="-1"></a>        <span class="at">colors =</span> <span class="fu">c</span>(<span class="st">"black"</span>, <span class="st">"green"</span>, <span class="st">"white"</span>)</span>
 <span id="cb9-13"><a href="#cb9-13" aria-hidden="true" tabindex="-1"></a>        )</span>
 <span id="cb9-14"><a href="#cb9-14" aria-hidden="true" tabindex="-1"></a>)</span></code><button title="Copy to Clipboard" class="code-copy-button"><i class="bi"></i></button></pre></div>
 <div class="cell-output-display">
 <p><img src="wafflecharts_files/figure-html/unnamed-chunk-9-1.png" class="img-fluid" width="672"></p>
 </div>
 </div>
-<p>News flash: Virginia Tech is changing its fight song to “Everybody Hurts” by REM.</p>
+<p>News flash: Michigan State is changing its fight song to “Everybody Hurts” by REM.</p>
 
 
 </section>

diff --git a/sports/linecharts.html b/sports/linecharts.html
@@ -437,7 +437,7 @@ date  (1): Date
 <p><img src="linecharts_files/figure-html/unnamed-chunk-8-1.png" class="img-fluid" width="672"></p>
 </div>
 </div>
-<p>Now, by using +, we can add Michigan State to it. REMEMBER COPY AND PASTE IS A THING. Nothing changes except what data you are using.</p>
+<p>Now, by using +, we can add Illinois to it. REMEMBER COPY AND PASTE IS A THING. Nothing changes except what data you are using.</p>
 <div class="cell">
 <div class="sourceCode cell-code" id="cb9"><pre class="sourceCode r code-with-copy"><code class="sourceCode r"><span id="cb9-1"><a href="#cb9-1" aria-hidden="true" tabindex="-1"></a><span class="fu">ggplot</span>() <span class="sc">+</span> </span>
 <span id="cb9-2"><a href="#cb9-2" aria-hidden="true" tabindex="-1"></a>  <span class="fu">geom_line</span>(<span class="at">data=</span>umd, <span class="fu">aes</span>(<span class="at">x=</span>Date, <span class="at">y=</span>TeamFGPCT), <span class="at">color=</span><span class="st">"red"</span>) <span class="sc">+</span> </span>
